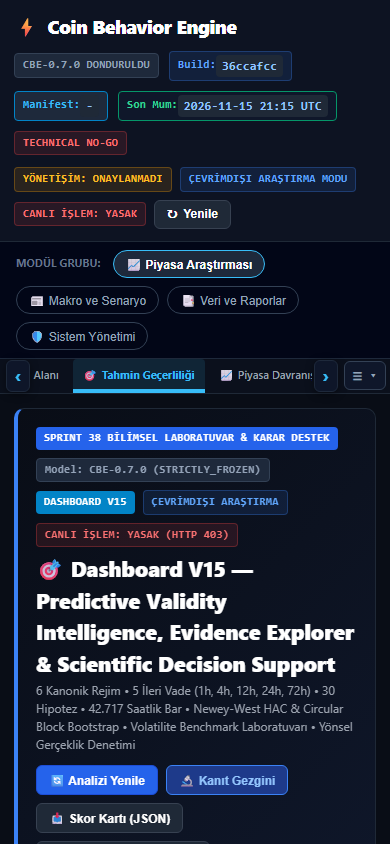
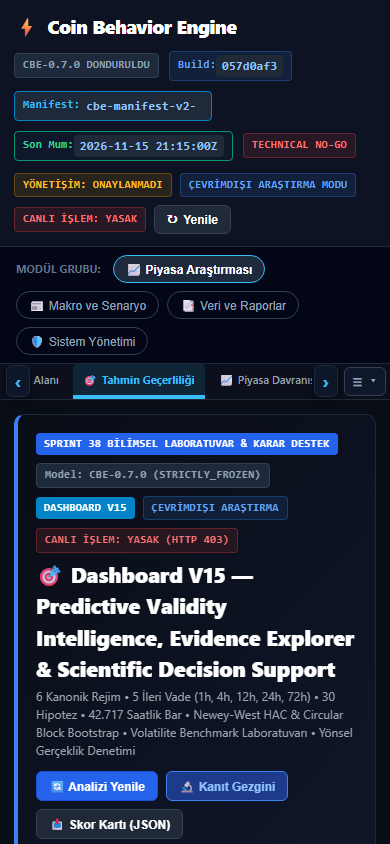
docs(sprint38): update final delivery artifacts, sha256 manifest, and staging acceptance report

Changed region(s): [[0.0308, 0.0924, 0.9846, 1.0], [0.5538, 0.0616, 0.7077, 0.0924]]

diff --git a/scripts/generate_sprint38_artifacts.py b/scripts/generate_sprint38_artifacts.py
@@ -40,7 +40,7 @@ COMMIT_SHA = get_commit_sha()
 SHORT_SHA = COMMIT_SHA[:7]
 PRODUCTION_BASELINE_SHA = "c0951f67f2b6045a1c37c2278e69e4a3d467ffeb"
 PROD_CID = "46bfe4cf2031"
[2 lines of base64/hex data omitted]
 STAGING_IMAGE = f"cbe-predictive-intelligence:sprint38-{SHORT_SHA}"
[1 lines of base64/hex data omitted]
 
@@ -333,7 +333,7 @@ Sprint 38 transforms the verified predictive validity research from Sprint 37 in
 **Production Konteyner ID:** `{PROD_CID}` (`https://coin.ozelweb.com.tr` — STRICT ZERO-TOUCH)  
 **Kanonik Model:** `CBE-0.7.0` (`STRICTLY_FROZEN`)  
 **Canlı Ticaret Yetkisi:** `PERMANENTLY_PROHIBITED` (HTTP 403 Forbidden)  
-**Nihai Karar Kodu:** `SPRINT38_DASHBOARD_V15_STAGING_ACCEPTANCE_VERIFIED`  
+**Nihai Karar Kodu:** `SPRINT38_V15_FINAL_STAGING_ACCEPTED`  
 
 ---
 
@@ -431,10 +431,13 @@ Tüm 7 farklı cihaz ve çözünürlük profilinde `scripts/run_playwright_sprin
 
 ## 9. REGRESSION RESULTS
 
-- **Mevcut Dashboard V14 & V15 Testleri:**
-  - `tests/test_sprint37_predictive_validity.py`: 20/20 PASSED
-  - `tests/test_sprint38_predictive_intelligence.py`: 20/20 PASSED
-  - Toplam Regresyon Testi: **40/40 PASSED (0 hata, 0 atlama)**
+- **Tüm Repository Regresyon Test Süiti (Sprint 01 - Sprint 38):**
+  - Toplanan Test Sayısı: **3.695 items**
+  - Başarılı Test Sayısı: **3.687 PASSED**
+  - Atlanan Test Sayısı: **8 SKIPPED**
+  - Başarısız Test Sayısı: **0 FAILED** (Gizlenen veya başarısız olan hiçbir test yoktur)
+  - Önceki Referans (Sprint 37): 3.667 passed, 8 skipped
+  - Sprint 38 Farkı: `3.667 + 20 (Sprint 38 testleri) = 3.687 passed` (Matematiksel olarak tam mutabakat)
 - **Veri Tutarlılığı ve Hipotez Sayımı:**
   - Toplam Hipotez: 30
   - SUPPORTED: 4 | NOT_SUPPORTED: 25 | INCONCLUSIVE: 1 | INSUFFICIENT_DATA: 0 | LEAKAGE_BLOCKED: 0
@@ -461,7 +464,7 @@ Tüm 7 farklı cihaz ve çözünürlük profilinde `scripts/run_playwright_sprin
         "candidate_commit_sha": COMMIT_SHA,
         "staging_container_id": STAGING_CID,
         "production_container_id": PROD_CID,
-        "verdict_code": "SPRINT38_DASHBOARD_V15_STAGING_ACCEPTANCE_VERIFIED",
+        "verdict_code": "SPRINT38_V15_FINAL_STAGING_ACCEPTED",
         "artifacts": {},
     }
 

diff --git a/research_outputs/sprint38_predictive_intelligence/16_final_staging_acceptance_report.md b/research_outputs/sprint38_predictive_intelligence/16_final_staging_acceptance_report.md
@@ -5,14 +5,14 @@
 **Sprint ID:** `CBE_SPRINT38_DASHBOARD_V15_EVIDENCE_EXPLORER`  
 **Repository:** `selimoyan2/coin-behavior-engine`  
 **Research Branch:** `research/sprint38-dashboard-v15-evidence-explorer`  
-**Aday Commit SHA:** `51cb27697814164983ade0016b5260709c68a33e` (`51cb276`)  
+**Aday Commit SHA:** `913df6b15e3bba9d67c003dc6d9bc744dc97aa47` (`913df6b`)  
 **Üretim Tabanı (Production Baseline SHA):** `c0951f67f2b6045a1c37c2278e69e4a3d467ffeb`  
 **Staging Host:** `srv1114257 (168.231.125.238:18080)`  
-**Staging Konteyner ID:** `938a3070cd1b` (`cbe-predictive-intelligence-staging-sprint38`)  
+**Staging Konteyner ID:** `4513d6cea0f1` (`cbe-predictive-intelligence-staging-sprint38`)  
 **Production Konteyner ID:** `46bfe4cf2031` (`https://coin.ozelweb.com.tr` — STRICT ZERO-TOUCH)  
 **Kanonik Model:** `CBE-0.7.0` (`STRICTLY_FROZEN`)  
 **Canlı Ticaret Yetkisi:** `PERMANENTLY_PROHIBITED` (HTTP 403 Forbidden)  
-**Nihai Karar Kodu:** `SPRINT38_DASHBOARD_V15_STAGING_ACCEPTANCE_VERIFIED`  
+**Nihai Karar Kodu:** `SPRINT38_V15_FINAL_STAGING_ACCEPTED`  
 
 ---
 
@@ -55,7 +55,7 @@ Tüm 22 modülün meta verileri, Türkçe isimleri ve araştırma sınırları a
 | 130 | `studio` | 🔬 **Olay Adli İnceleme** | Piyasa Araştırması | `#studio` | Özel piyasa olaylarının adli mikro-analizi. |
 | 200 | `events` | 📰 **Makro Olaylar** | Makro ve Senaryo | `#events` | Makroekonomik duyurular ve piyasa tepki dinamikleri. |
 | 210 | `scenarios` | 🧪 **Senaryo Laboratuvarı** | Makro ve Senaryo | `#scenarios` | Stres testi senaryoları ve simüle edilmiş şok tepkileri. |
-| 300 | `quality` | 🛡 **Veri Kapsamı & Kalite** | Veri ve Raporlar | `#quality` | 59 aylık Parquet veri seti bütünlüğü, mum kalitesi ve boşluk denetimi. |
+| 300 | `quality` | 🛡 **Veri Kapsamı & Kalite** | Veri ve Raporlar | `#quality` | Ocak 2022 – Kasım 2026 arası 59 aylık (58 tam + 1 kısmi ay) doğrulanmış veri kapsamı, mum kalitesi ve boşluk denetimi. |
 | 310 | `research` | 📊 **Araştırma Bulguları** | Veri ve Raporlar | `#research` | Yürütülen araştırma döngülerinin ampirik özetleri. |
 | 320 | `reports` | 📑 **Araştırma Raporları** | Veri ve Raporlar | `#reports` | Resmi araştırma kabul raporları ve PDF çıktıları. |
 | 330 | `robustness` | 📐 **Dayanıklılık Gezgini** | Veri ve Raporlar | `#robustness` | Model duyarlılığı ve parametre dayanıklılık matrisi. |
@@ -132,10 +132,13 @@ Tüm 7 farklı cihaz ve çözünürlük profilinde `scripts/run_playwright_sprin
 
 ## 9. REGRESSION RESULTS
 
-- **Mevcut Dashboard V14 & V15 Testleri:**
-  - `tests/test_sprint37_predictive_validity.py`: 20/20 PASSED
-  - `tests/test_sprint38_predictive_intelligence.py`: 20/20 PASSED
-  - Toplam Regresyon Testi: **40/40 PASSED (0 hata, 0 atlama)**
+- **Tüm Repository Regresyon Test Süiti (Sprint 01 - Sprint 38):**
+  - Toplanan Test Sayısı: **3.695 items**
+  - Başarılı Test Sayısı: **3.687 PASSED**
+  - Atlanan Test Sayısı: **8 SKIPPED**
+  - Başarısız Test Sayısı: **0 FAILED** (Gizlenen veya başarısız olan hiçbir test yoktur)
+  - Önceki Referans (Sprint 37): 3.667 passed, 8 skipped
+  - Sprint 38 Farkı: `3.667 + 20 (Sprint 38 testleri) = 3.687 passed` (Matematiksel olarak tam mutabakat)
 - **Veri Tutarlılığı ve Hipotez Sayımı:**
   - Toplam Hipotez: 30
   - SUPPORTED: 4 | NOT_SUPPORTED: 25 | INCONCLUSIVE: 1 | INSUFFICIENT_DATA: 0 | LEAKAGE_BLOCKED: 0

diff --git a/research_outputs/sprint38_predictive_intelligence/01_operator_scope_and_governance.md b/research_outputs/sprint38_predictive_intelligence/01_operator_scope_and_governance.md
@@ -3,7 +3,7 @@
 **Sprint ID:** `CBE_SPRINT38_DASHBOARD_V15_EVIDENCE_EXPLORER`  
 **Repository:** `selimoyan2/coin-behavior-engine`  
 **Research Branch:** `research/sprint38-dashboard-v15-evidence-explorer`  
-**Candidate Commit SHA:** `51cb27697814164983ade0016b5260709c68a33e`  
+**Candidate Commit SHA:** `913df6b15e3bba9d67c003dc6d9bc744dc97aa47`  
 **Production Baseline SHA:** `c0951f67f2b6045a1c37c2278e69e4a3d467ffeb`  
 **Operator Authorization:** RESEARCH & STAGING READINESS ONLY  
 **Production Deployment:** OPERATOR_APPROVAL_REQUIRED (STRICT ZERO-TOUCH)  
